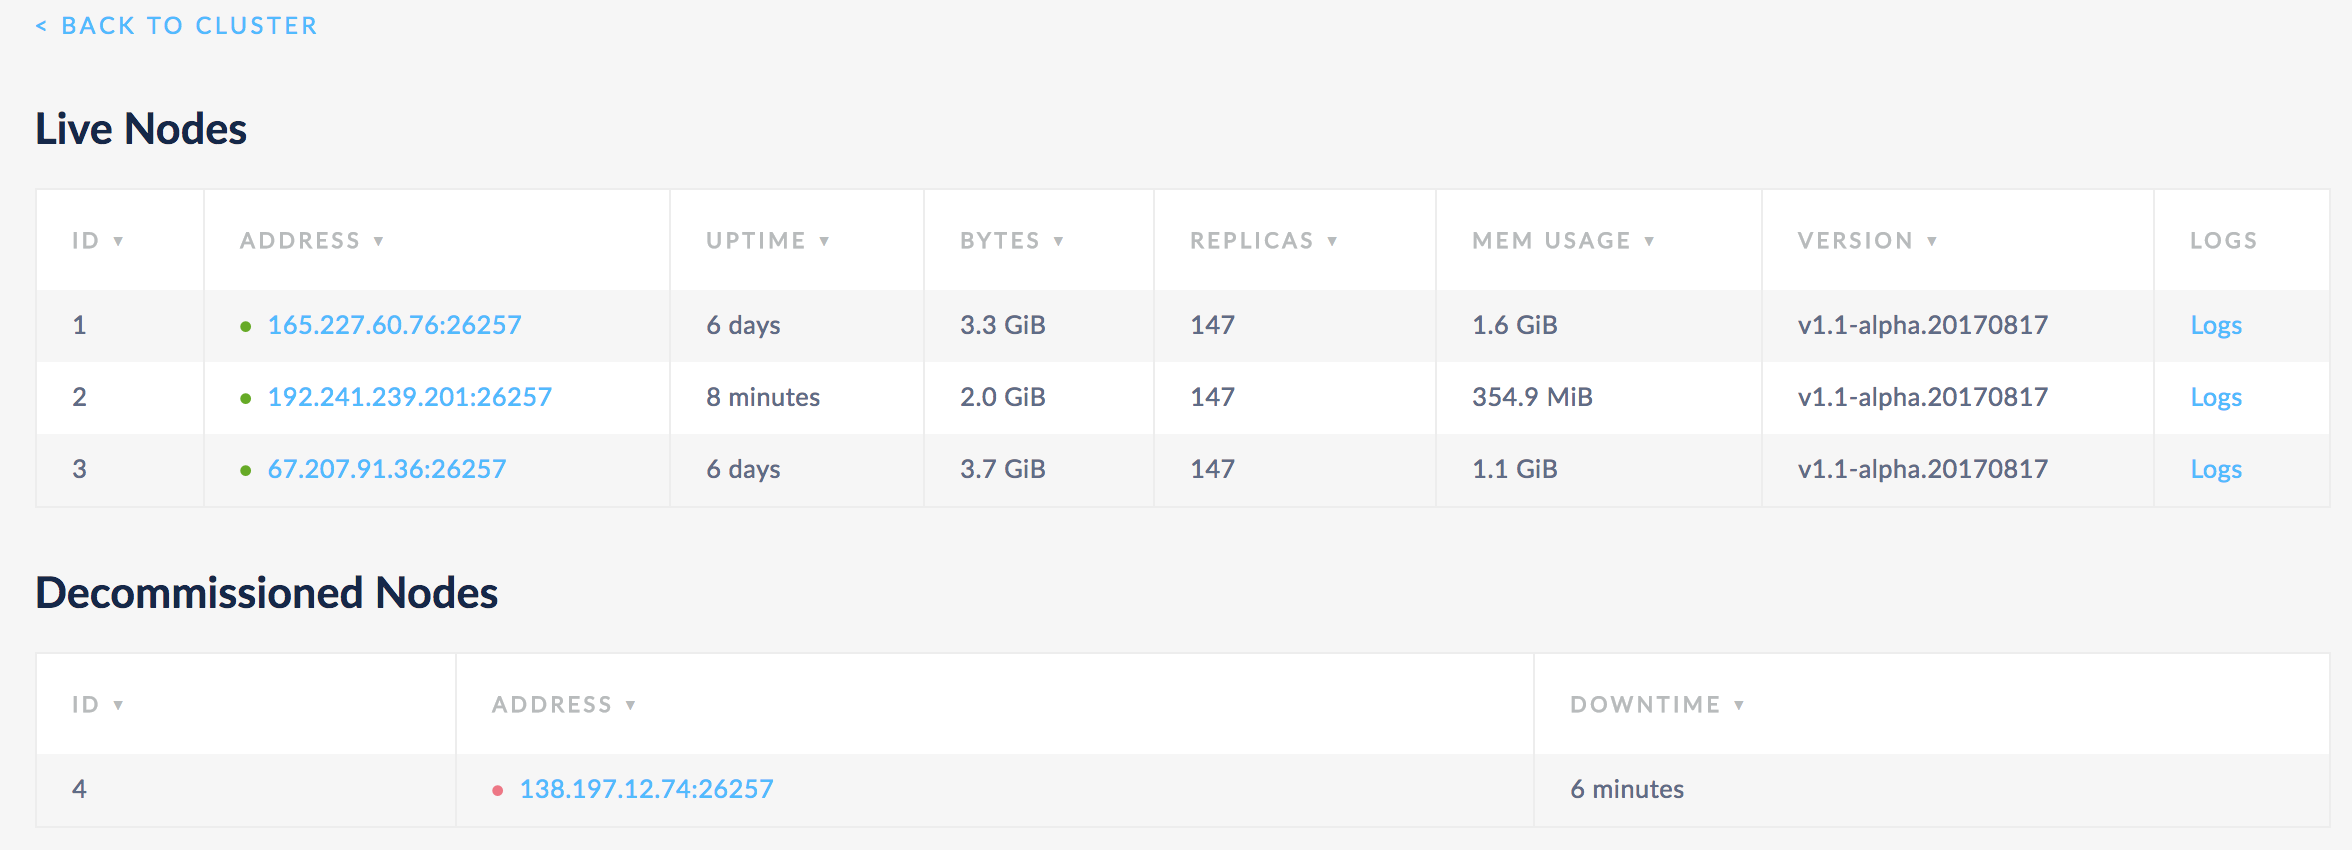
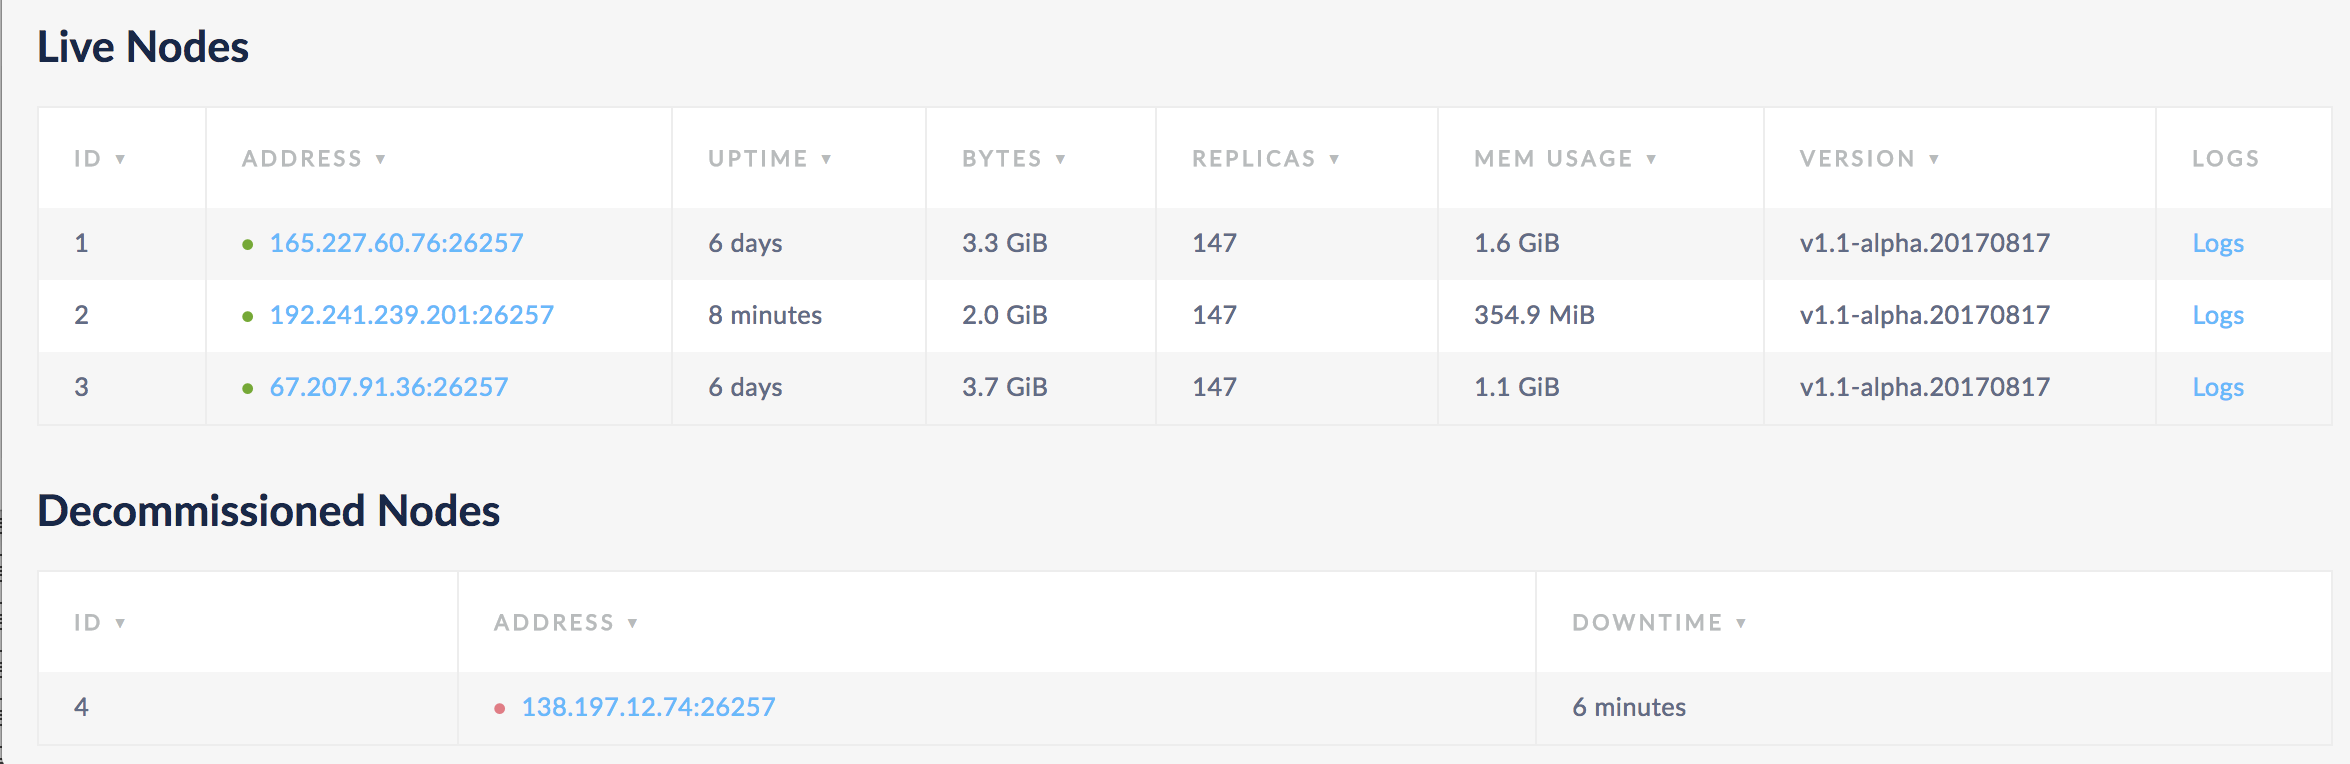
Fixed images

diff --git a/v2.0/admin-ui-access-and-navigate.md b/v2.0/admin-ui-access-and-navigate.md
@@ -29,11 +29,9 @@ Cluster Metrics | <ul><li>[Time Series graphs](admin-ui-access-and-navigate.html
 Databases | Information about the Tables or Grants in your [databases](admin-ui-databases-page.html).
 Jobs | Information about all currently active schema changes and backup/restore [jobs](admin-ui-jobs-page.html).
 
-<img src="{{ 'images/admin_ui_overview.gif' | relative_url }}" alt="CockroachDB Admin UI" style="border:1px solid #eee;max-width:100%" />
-
 ### Cluster Overview Panel
 
-<img src="{{ 'images/admin_ui_summary_panel.png' | relative_url }}" alt="CockroachDB Admin UI Summary Panel" style="border:1px solid #eee;max-width:40%" />
+<img src="{{ 'images/v2.0/admin-ui-cluster-overview-panel.png' | relative_url }}" alt="CockroachDB Admin UI" style="border:1px solid #eee;max-width:100%" />
 
 The **Cluster Overview** panel provides the following metrics:
 
@@ -46,7 +44,7 @@ Replication Status | <ul><li>The total number of ranges in the cluster.</li><li>
 ### Node List
 
 The **Node List** is the default view on the **Overview** page.
-<img src="{{ 'images/v2.0/admin_ui_nodes_page.png' | relative_url }}" alt="CockroachDB Admin UI" style="border:1px solid #eee;max-width:100%" />
+<img src="{{ 'images/v2.0/admin-ui-node-list.png' | relative_url }}" alt="CockroachDB Admin UI" style="border:1px solid #eee;max-width:100%" />
 
 #### Live Nodes
 Live nodes are nodes that are online and responding. They are marked with a green dot. If a node is removed or dies, the dot turns yellow to indicate that it is not responding. If the node remains unresponsive for a certain amount of time (5 minutes by default), the node turns red and is moved to the [**Dead Nodes**](#dead-nodes) section, indicating that it is no longer expected to come back.
@@ -88,13 +86,13 @@ When you decommission a node, CockroachDB lets the node finish in-flight request
 
 <span class="version-tag">New in v2.0:</span> The **Node Map** is an [enterprise-only](enterprise-licensing.html) feature that gives you a visual representation of the geographical configuration of your cluster. The Node Map consists of the following components:
 
-**Node component**
-
-<img src="{{ 'images/v2.0/admin-ui-node-components.png' | relative_url }}" alt="CockroachDB Admin UI Summary Panel" style="border:1px solid #eee;max-width:90%" />
-
 **Region component**
 
 <img src="{{ 'images/v2.0/admin-ui-region-component.png' | relative_url }}" alt="CockroachDB Admin UI Summary Panel" style="border:1px solid #eee;max-width:90%" />
+
+**Node component**
+
+<img src="{{ 'images/v2.0/admin-ui-node-components.png' | relative_url }}" alt="CockroachDB Admin UI Summary Panel" style="border:1px solid #eee;max-width:90%" />
 
 For guidance on enabling and using the node map, see [Enable Node Map](enable-node-map.html). 
 
@@ -112,14 +110,14 @@ You can hover over each graph to see actual point-in-time values.
 #### Change time range
 
 You can change the time range by clicking on the time window.
-<img src="{{ 'images/v2.0/admin_ui_time_range.gif' | relative_url }}" alt="CockroachDB Admin UI" style="border:1px solid #eee;max-width:100%" />
+<img src="{{ 'images/v2.0/admin-ui-time-range.gif' | relative_url }}" alt="CockroachDB Admin UI" style="border:1px solid #eee;max-width:100%" />
 
 {{site.data.alerts.callout_info}}The Admin UI shows time in UTC, even if you set a different time zone for your cluster. {{site.data.alerts.end}}
 
 #### View metrics for a single node
 
 By default, the time series panel displays the metrics for the entire cluster. To view the metrics for an individual node, select the node from the **Graph** drop-down list.
-<img src="{{ 'images/v2.0/admin_ui_single_node.gif' | relative_url }}" alt="CockroachDB Admin UI" style="border:1px solid #eee;max-width:100%" />
+<img src="{{ 'images/v2.0/admin-ui-single-node.gif' | relative_url }}" alt="CockroachDB Admin UI" style="border:1px solid #eee;max-width:100%" />
 
 ### Summary Panel
 
